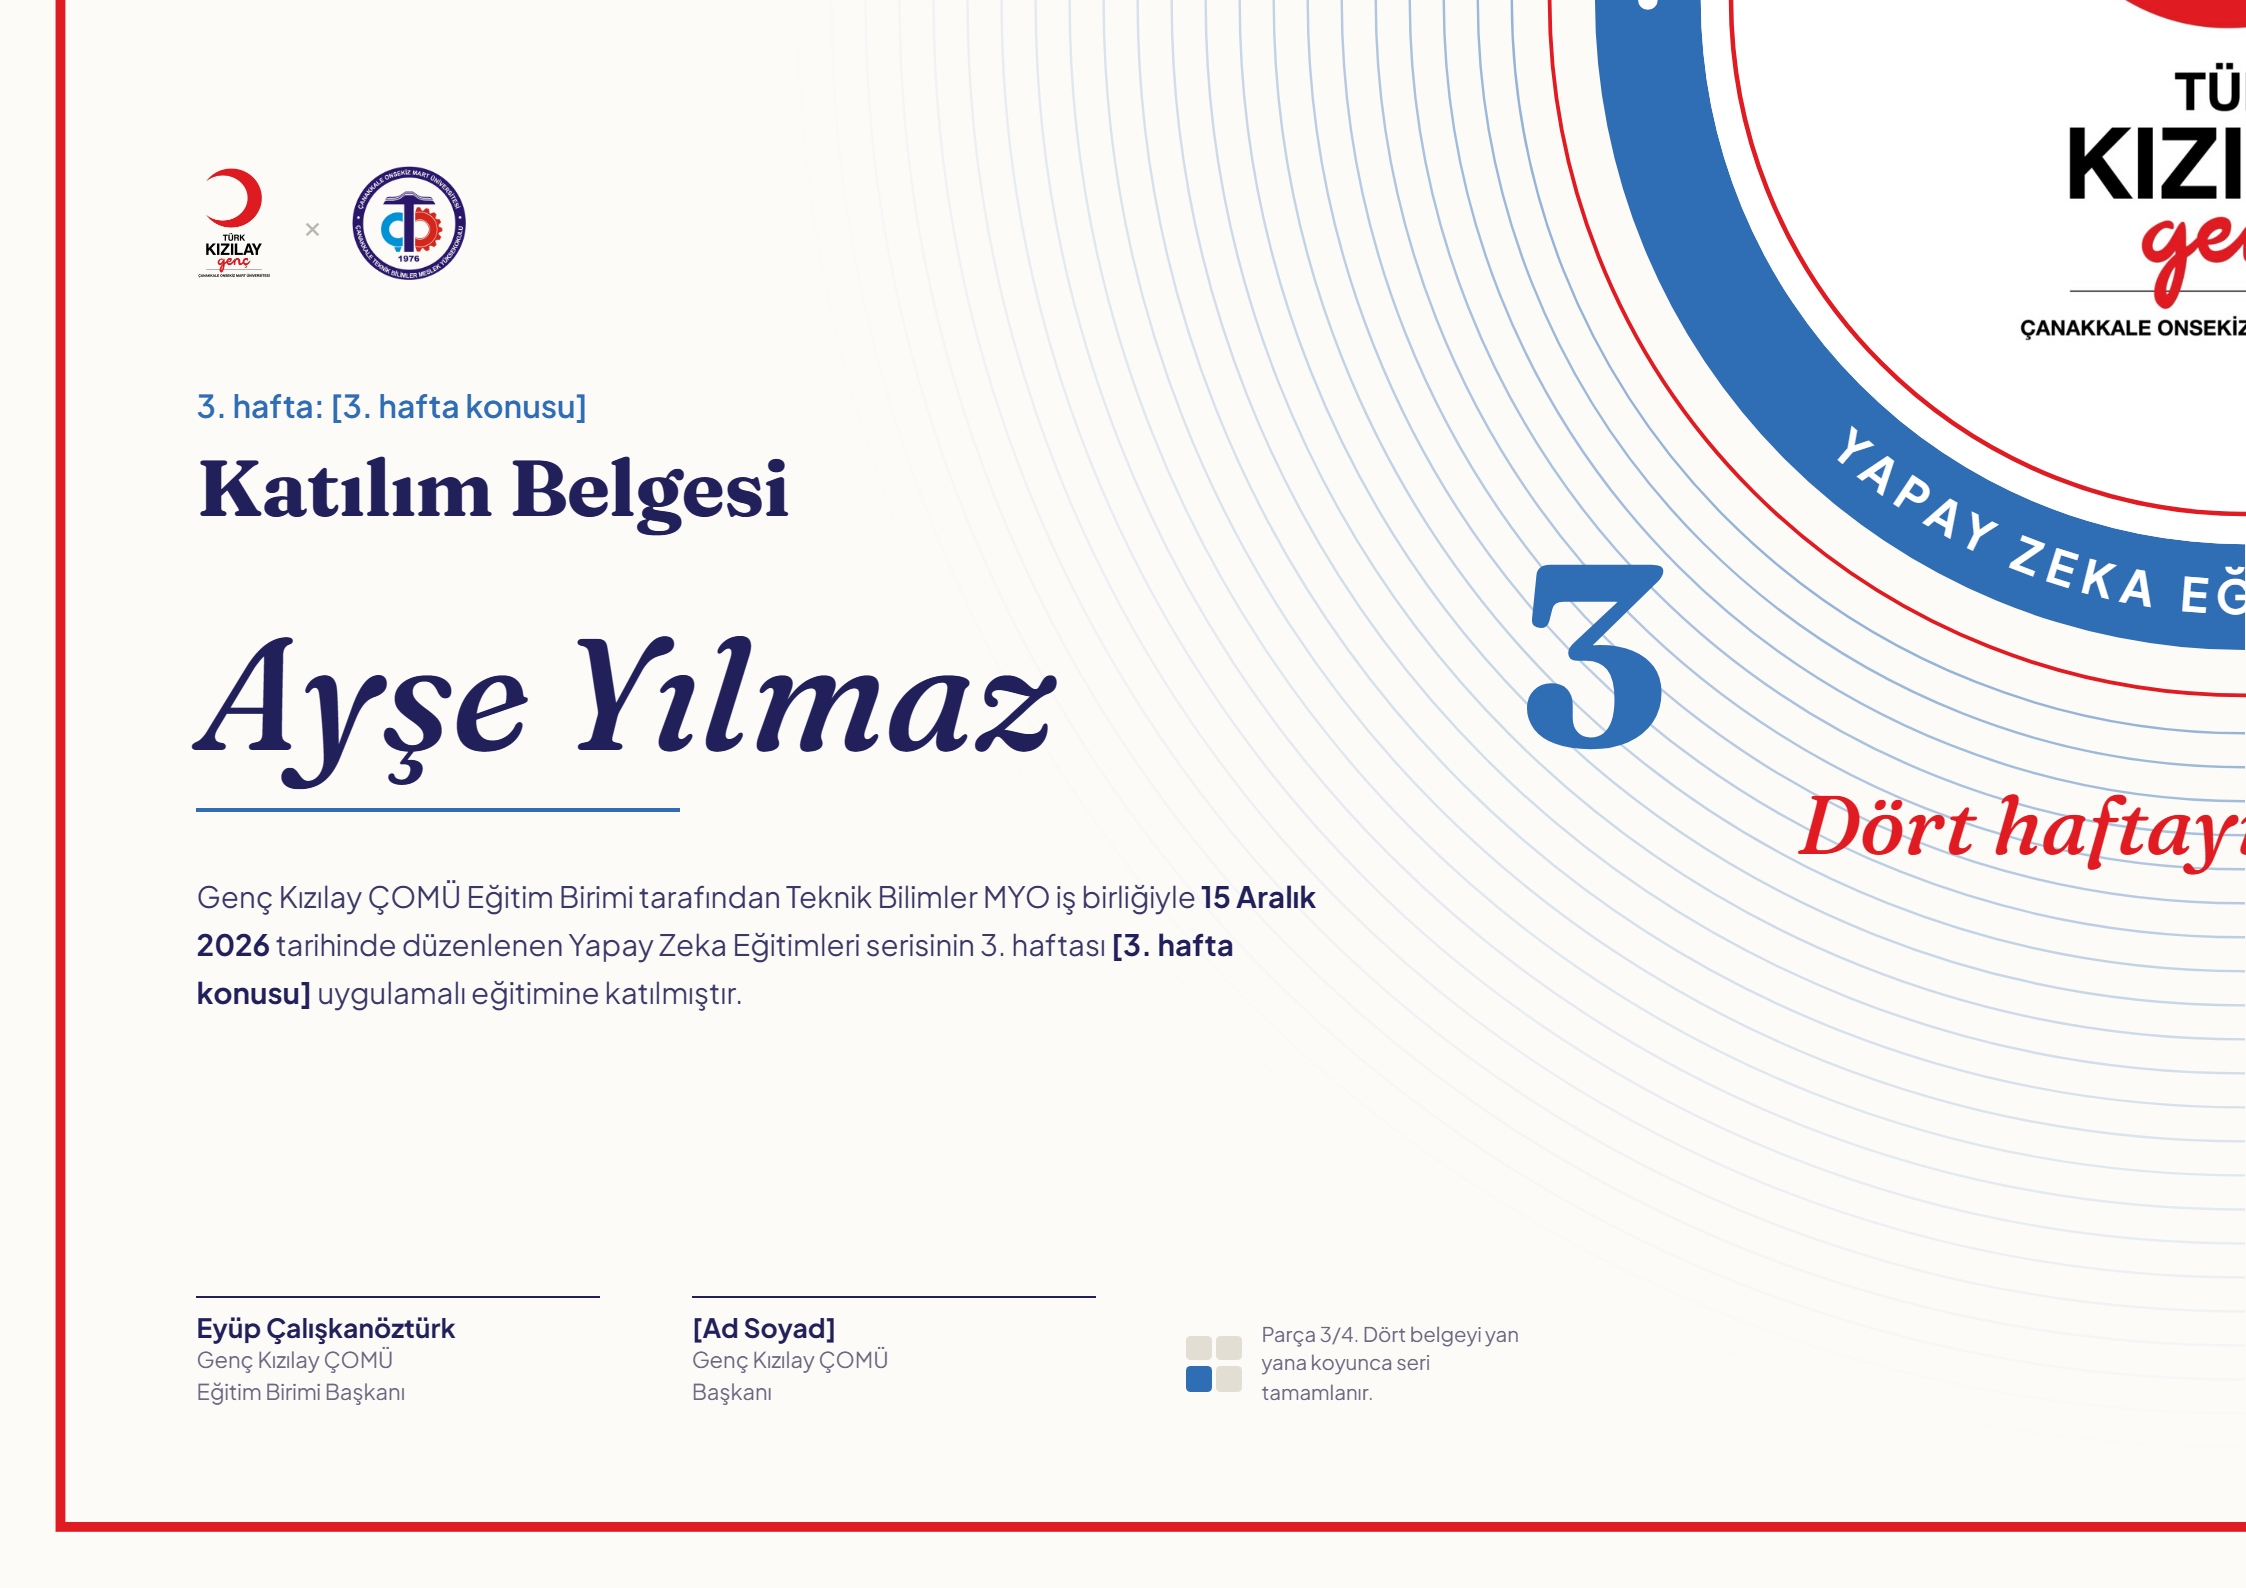
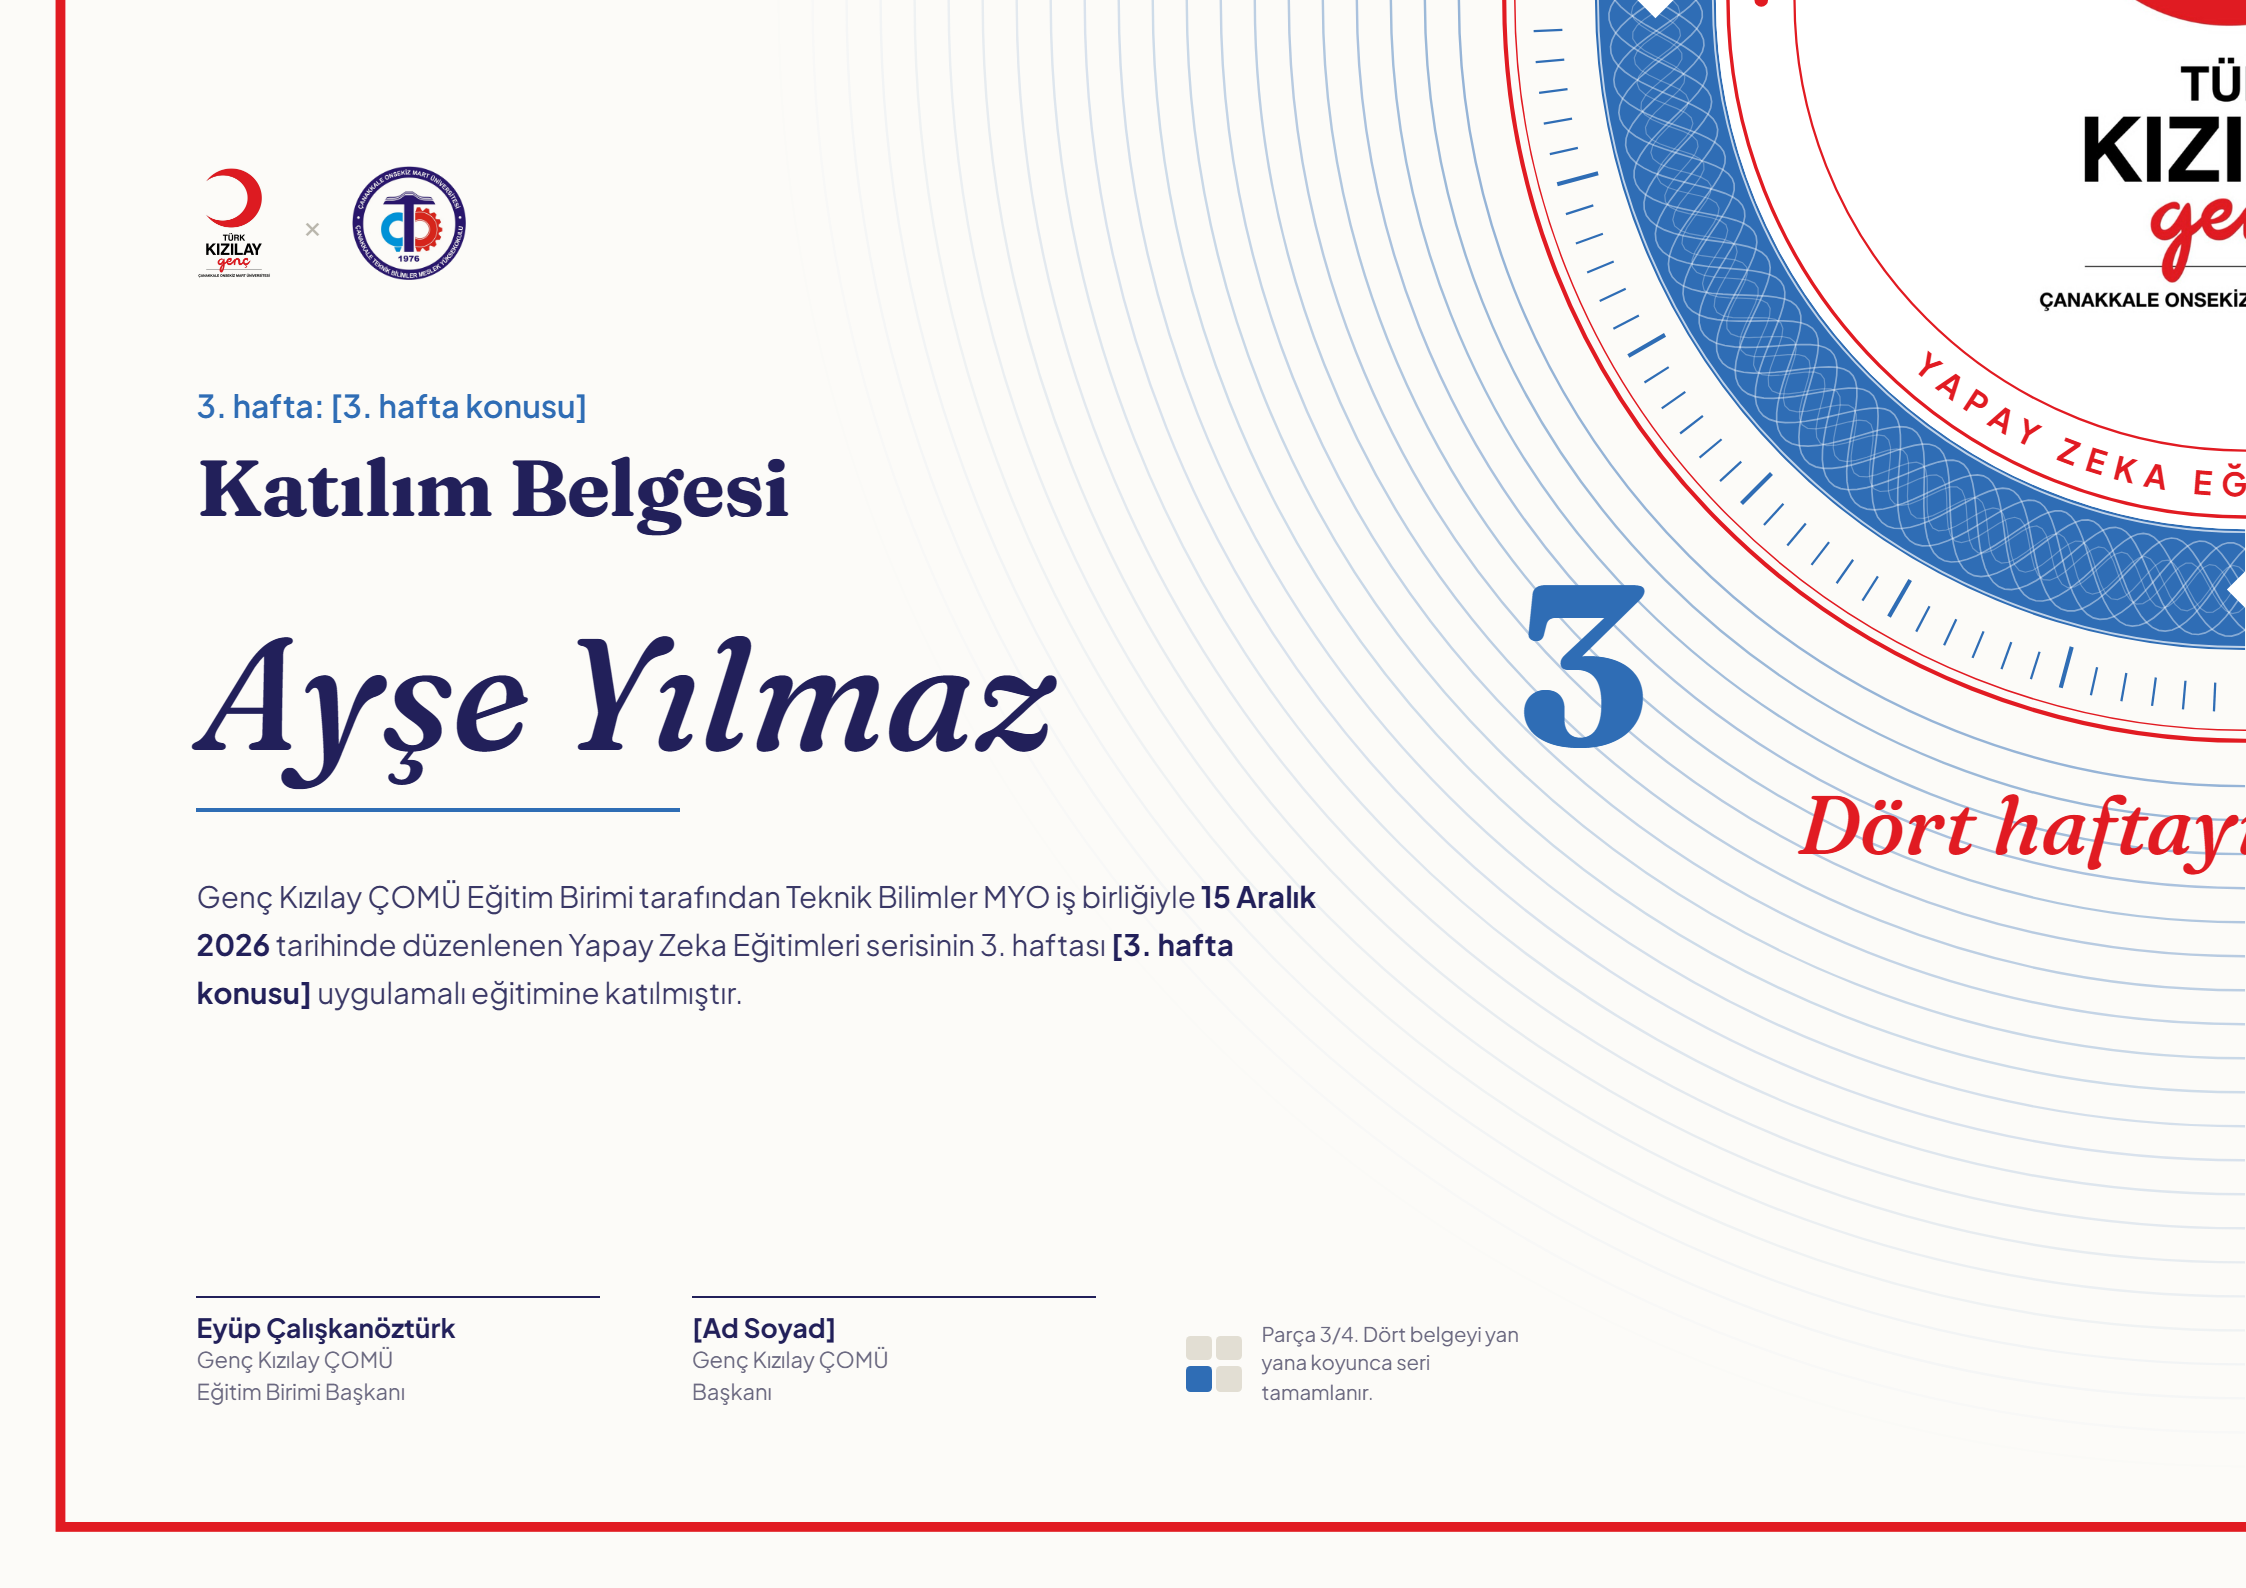
Belge madalyonu: giyoş bandı, kadran ve iç yazı halkası
- Dört haftanın renk bandında iç içe geçen beyaz giyoş dalgaları
- Bandın dışında hafta renklerinde kadran çizgileri, çift kırmızı çember
- Dikişlerde beyaz baklava; kurum yazısı logonun çevresinde kırmızı halka
- Hafta işaretleri madalyondan biraz uzaklaştırıldı

Changed region(s): [[0.4675, 0.0, 1.0, 0.7406], [0.9038, 0.0309, 1.0, 0.216]]

diff --git a/sertifika/belge.html b/sertifika/belge.html
@@ -95,32 +95,66 @@
       HAFTALAR.forEach(function (h, i) {
         var guc = i === 0 ? 0.75 : 0.5, kalinlik = i === 0 ? 0.45 : 0.32;
         s += '<g clip-path="url(#kesit' + i + ')" fill="none" stroke="' + h.renk + '" stroke-width="' + kalinlik + '">';
-        for (var r = 97; r < 196; r += 4.5) {
-          var op = guc * Math.pow(1 - (r - 97) / 100, 1.5);
+        for (var r = 104; r < 200; r += 4.5) {
+          var op = guc * Math.pow(1 - (r - 104) / 96, 1.5);
           s += '<circle cx="' + cx + '" cy="' + cy + '" r="' + r + '" stroke-opacity="' + op.toFixed(3) + '"/>';
         }
         s += '</g>';
       });
 
-      // Madalyon: dört renkli halka, beyaz disk, resmi logo
-      s += '<circle cx="' + cx + '" cy="' + cy + '" r="92" fill="var(--kagit)" stroke="#E11B22" stroke-width="0.5"/>';
+      // ---------- Madalyon ----------
+      // Katmanlar (içten dışa): logo · kırmızı yazı halkası · giyoşlu renk bandı · kadran · kırmızı çember
+      var ceyrekRengi = function (aci) { aci = ((aci % 360) + 360) % 360; return HAFTALAR[aci >= 180 && aci < 270 ? 0 : aci >= 270 ? 1 : aci >= 90 ? 2 : 3].renk; };
+      s += '<circle cx="' + cx + '" cy="' + cy + '" r="99" fill="var(--kagit)"/>';
+      s += '<circle cx="' + cx + '" cy="' + cy + '" r="98" fill="none" stroke="#E11B22" stroke-width="0.55"/>';
+      s += '<circle cx="' + cx + '" cy="' + cy + '" r="96.6" fill="none" stroke="#E11B22" stroke-width="0.2"/>';
+
+      // Kadran: her 2,5°'de bir çizgi, her 15°'de uzun çizgi; çeyrek kendi haftasının renginde
+      for (var t = 0; t < 360; t += 2.5) {
+        if (t % 90 === 0) continue; // dikişlerde boşluk
+        var uzun = t % 15 === 0, a1 = xy(uzun ? 88.6 : 90.4, t), a2 = xy(94.2, t);
+        s += '<line x1="' + a1[0] + '" y1="' + a1[1] + '" x2="' + a2[0] + '" y2="' + a2[1] + '" stroke="' + ceyrekRengi(t + 0.1) + '" stroke-width="' + (uzun ? 0.55 : 0.3) + '"/>';
+      }
+
+      // Renk bandı (70–86 mm), her çeyrek bir hafta
       [[180, 0], [270, 1], [90, 2], [0, 3]].forEach(function (d) {
         var a = d[0], b = d[0] + 90;
-        s += '<path d="M' + n(86, a) + ' A86,86 0 0 1 ' + n(86, b) + ' L' + n(72, b) + ' A72,72 0 0 0 ' + n(72, a) + ' Z" fill="' + HAFTALAR[d[1]].renk + '"/>';
+        s += '<path d="M' + n(86, a) + ' A86,86 0 0 1 ' + n(86, b) + ' L' + n(70, b) + ' A70,70 0 0 0 ' + n(70, a) + ' Z" fill="' + HAFTALAR[d[1]].renk + '"/>';
       });
-      s += '<defs><path id="ust-yay" d="M' + (cx - 76.7) + ',' + cy + ' A76.7,76.7 0 0 1 ' + (cx + 76.7) + ',' + cy + '"/>' +
-           '<path id="alt-yay" d="M' + (cx - 81.3) + ',' + cy + ' A81.3,81.3 0 0 0 ' + (cx + 81.3) + ',' + cy + '"/></defs>';
-      var halka = function (id, metin) { return '<text font-family="Plus Jakarta Sans, sans-serif" font-weight="700" font-size="6.2" fill="#FFFFFF" letter-spacing="1.25" text-anchor="middle"><textPath href="#' + id + '" startOffset="50%">' + metin + '</textPath></text>'; };
+      // Giyoş: bandın üzerinde iç içe geçen ince beyaz dalgalar (güvenlik baskısı inceliği)
+      var giyos = function (orta, genlik, frekans, faz, op, kal) {
+        var yol = '';
+        for (var u = 0; u <= 360; u += 0.6) {
+          var rr = orta + genlik * Math.sin((frekans * u + faz) * Math.PI / 180);
+          yol += (u ? 'L' : 'M') + n(rr, u);
+        }
+        return '<path d="' + yol + 'Z" fill="none" stroke="#FFFFFF" stroke-opacity="' + op + '" stroke-width="' + kal + '"/>';
+      };
+      for (var k = 0; k < 6; k++) s += giyos(78, 6.2, 20, k * 60, 0.42, 0.22);
+      for (var k2 = 0; k2 < 4; k2++) s += giyos(78, 3.2, 40, k2 * 90 + 45, 0.28, 0.16);
+      s += '<circle cx="' + cx + '" cy="' + cy + '" r="85.6" fill="none" stroke="#FFFFFF" stroke-opacity="0.7" stroke-width="0.25"/>';
+      s += '<circle cx="' + cx + '" cy="' + cy + '" r="70.4" fill="none" stroke="#FFFFFF" stroke-opacity="0.7" stroke-width="0.25"/>';
+      // Dikişlerde (dört haftanın buluştuğu yerlerde) küçük beyaz eşkenar dörtgen
+      [0, 90, 180, 270].forEach(function (a) {
+        var p = xy(78, a), q = 2.4;
+        s += '<polygon points="' + p[0] + ',' + (p[1] - q) + ' ' + (p[0] + q) + ',' + p[1] + ' ' + p[0] + ',' + (p[1] + q) + ' ' + (p[0] - q) + ',' + p[1] + '" fill="#FFFFFF" transform="rotate(' + a + ' ' + p[0] + ' ' + p[1] + ')"/>';
+      });
+
+      // Beyaz disk ve logonun çevresinde kırmızı yazı halkası
+      s += '<circle cx="' + cx + '" cy="' + cy + '" r="70" fill="#FFFFFF"/>';
+      s += '<circle cx="' + cx + '" cy="' + cy + '" r="68.4" fill="none" stroke="#E11B22" stroke-width="0.45"/>';
+      s += '<circle cx="' + cx + '" cy="' + cy + '" r="59.6" fill="none" stroke="#E11B22" stroke-width="0.3"/>';
+      s += '<defs><path id="ust-yay" d="M' + (cx - 62.3) + ',' + cy + ' A62.3,62.3 0 0 1 ' + (cx + 62.3) + ',' + cy + '"/>' +
+           '<path id="alt-yay" d="M' + (cx - 65.7) + ',' + cy + ' A65.7,65.7 0 0 0 ' + (cx + 65.7) + ',' + cy + '"/></defs>';
+      var halka = function (id, metin) { return '<text font-family="Plus Jakarta Sans, sans-serif" font-weight="700" font-size="4.3" fill="#E11B22" letter-spacing="1.35" text-anchor="middle"><textPath href="#' + id + '" startOffset="50%">' + metin + '</textPath></text>'; };
       s += halka('ust-yay', 'GENÇ KIZILAY ÇOMÜ EĞİTİM BİRİMİ') + halka('alt-yay', 'YAPAY ZEKA EĞİTİMLERİ 2026');
-      [180, 0].forEach(function (a) { var p = xy(79, a); s += '<circle cx="' + p[0] + '" cy="' + p[1] + '" r="1.3" fill="#FFFFFF"/>'; });
-      s += '<circle cx="' + cx + '" cy="' + cy + '" r="72" fill="#FFFFFF"/>';
-      s += '<circle cx="' + cx + '" cy="' + cy + '" r="68" fill="none" stroke="#E11B22" stroke-width="0.6"/>';
-      var lh = 94, lw = lh * 607 / 900;
+      [180, 0].forEach(function (a) { var p = xy(64, a); s += '<circle cx="' + p[0] + '" cy="' + p[1] + '" r="0.9" fill="#E11B22"/>'; });
+      var lh = 86, lw = lh * 607 / 900;
       s += '<image href="../gorseller/logolar/genc-kizilay-comu.png" x="' + (cx - lw / 2).toFixed(2) + '" y="' + (cy - lh / 2) + '" width="' + lw.toFixed(2) + '" height="' + lh + '"/>';
 
       // Haftaların işaretleri madalyonun köşegenlerinde
-      [[225, 0, 48], [315, 1, 24], [135, 2, 34], [45, 3, 34]].forEach(function (d) {
-        var p = xy(122, d[0]);
+      [[225, 0, 44], [315, 1, 22], [135, 2, 30], [45, 3, 30]].forEach(function (d) {
+        var p = xy(d[1] === 0 ? 130 : 124, d[0]);
         s += simge(HAFTALAR[d[1]], p[0], p[1], d[2]);
       });
 
